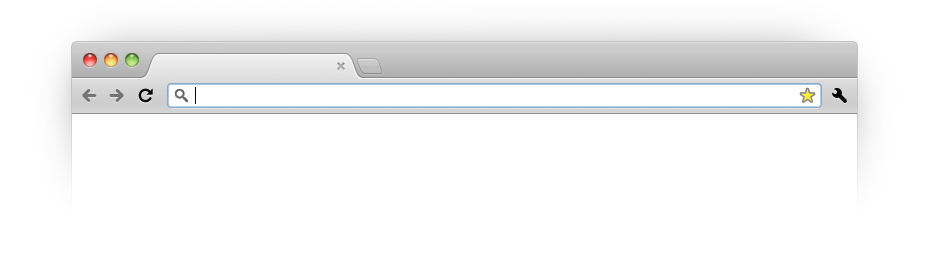
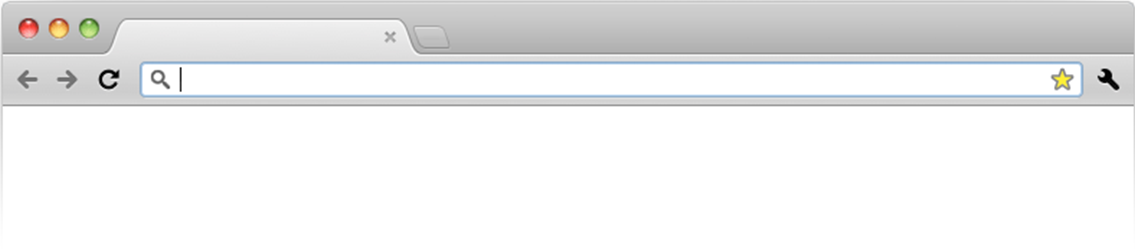
Included Chrome window & Fixed some spacing issues

diff --git a/app/styles/main.scss b/app/styles/main.scss
@@ -5,10 +5,6 @@ body {
 	font-family: 'Open Sans', sans-serif;
 }
 
-.sudo-page {
-	margin-top: 00px;
-}
-
 h1, h2, h3, h4, h5 {
 	color: #5d5c5c;
 }
@@ -32,12 +28,25 @@ img {
 }
 
 .navbar .brand {
-	padding-left: 70px;
+	margin-left: 0px;
 }
 
 .navbar .nav > li > a:focus, .navbar .nav > li > a:hover {
 	background-color: #E5E5E5;
 }
+
+.header {
+	width: 100%;
+	padding-top: 30px;
+	margin-bottom: -100px;
+}
+
+[class*="span"] {
+	margin-left: 0px;
+}
+
+
+
 
 // #chrome {
 // 	background-image: url('../images/chrome-bg.png');

diff --git a/app/index.html b/app/index.html
@@ -58,6 +58,12 @@
                 </div>
 
                 <div class="row-fluid">
+                    <div class="span12">
+                        <img class="header" src="images/chrome-bg.png" alt="chrome preview"/>
+                    </div>
+                </div>
+
+                <div class="row-fluid">
                     <div class="span4">
                         <h2>Canary</h2>
                         <img src="images/chrome-canary-icon-370x190.png" alt="chrome canary"/>
